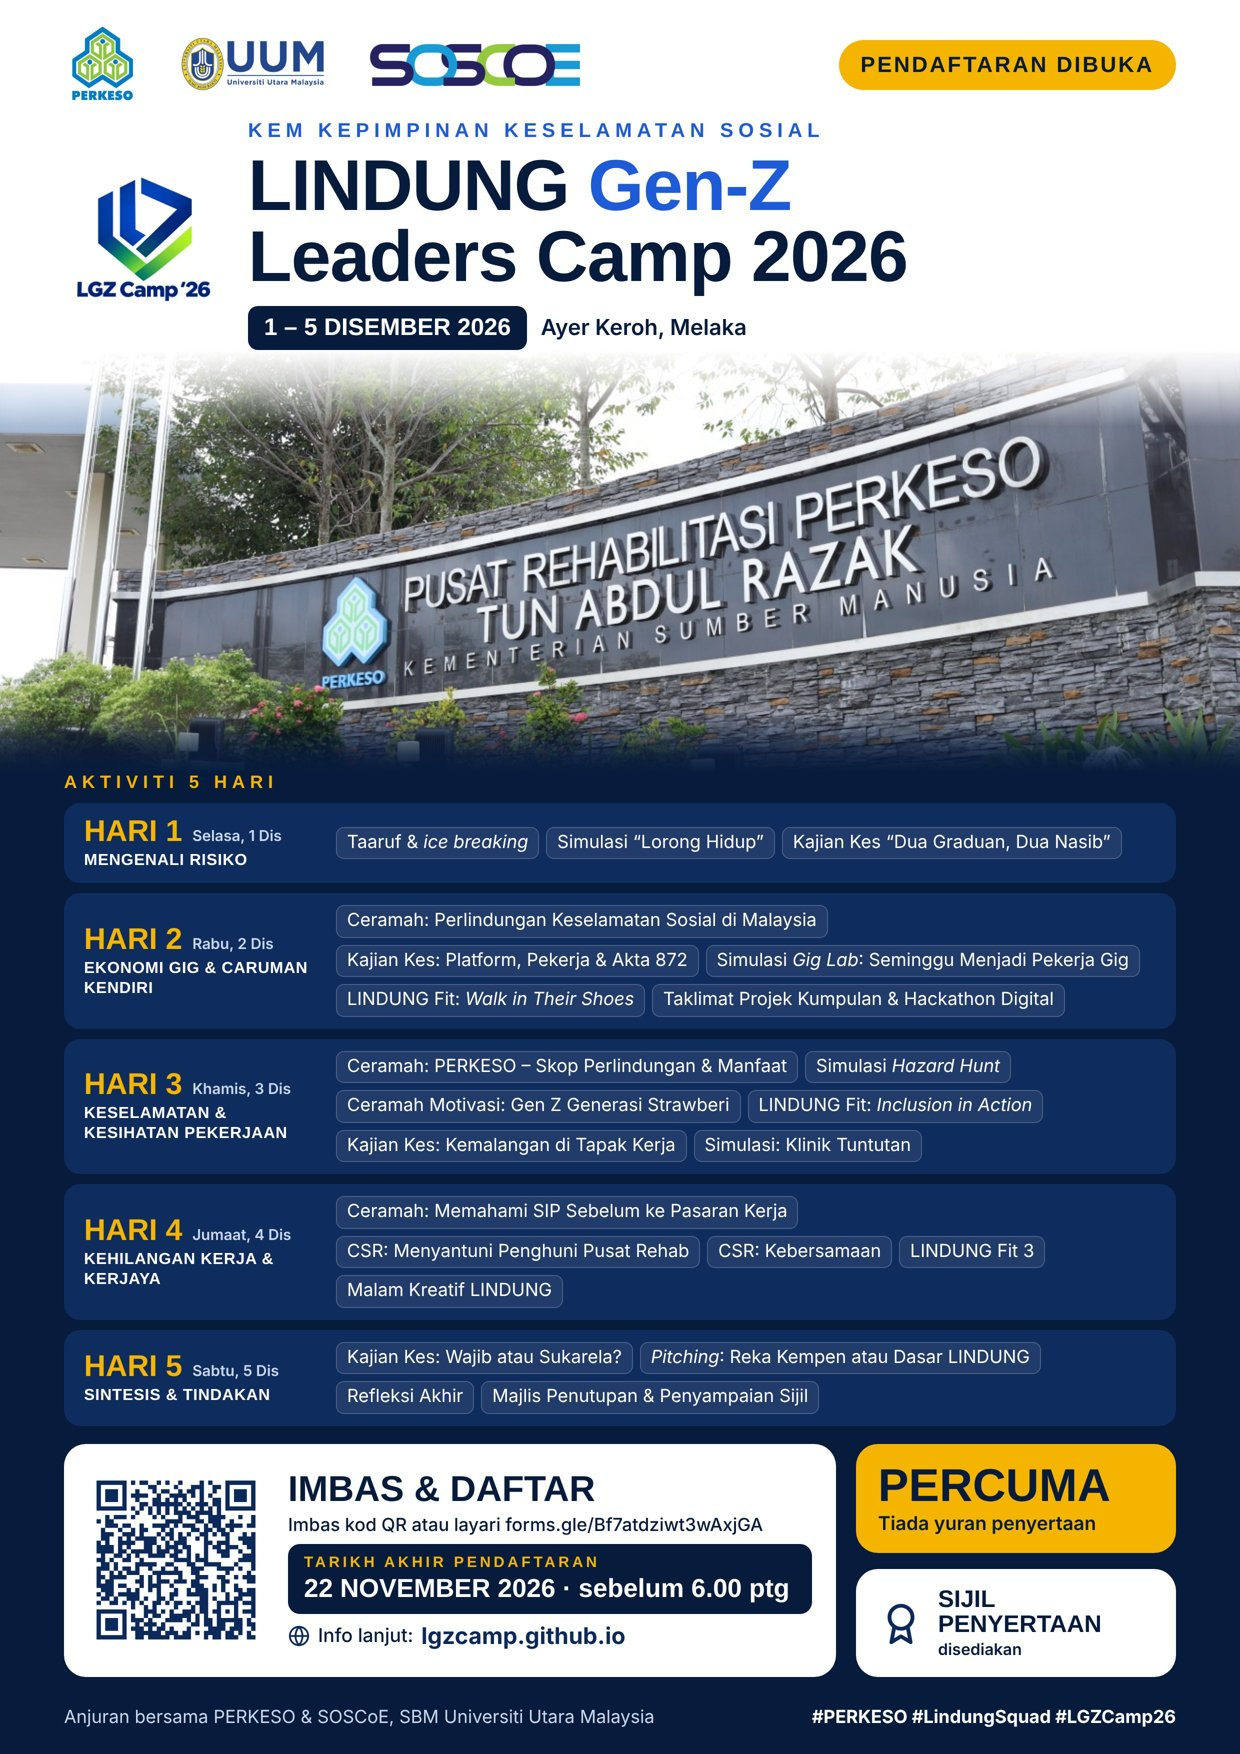
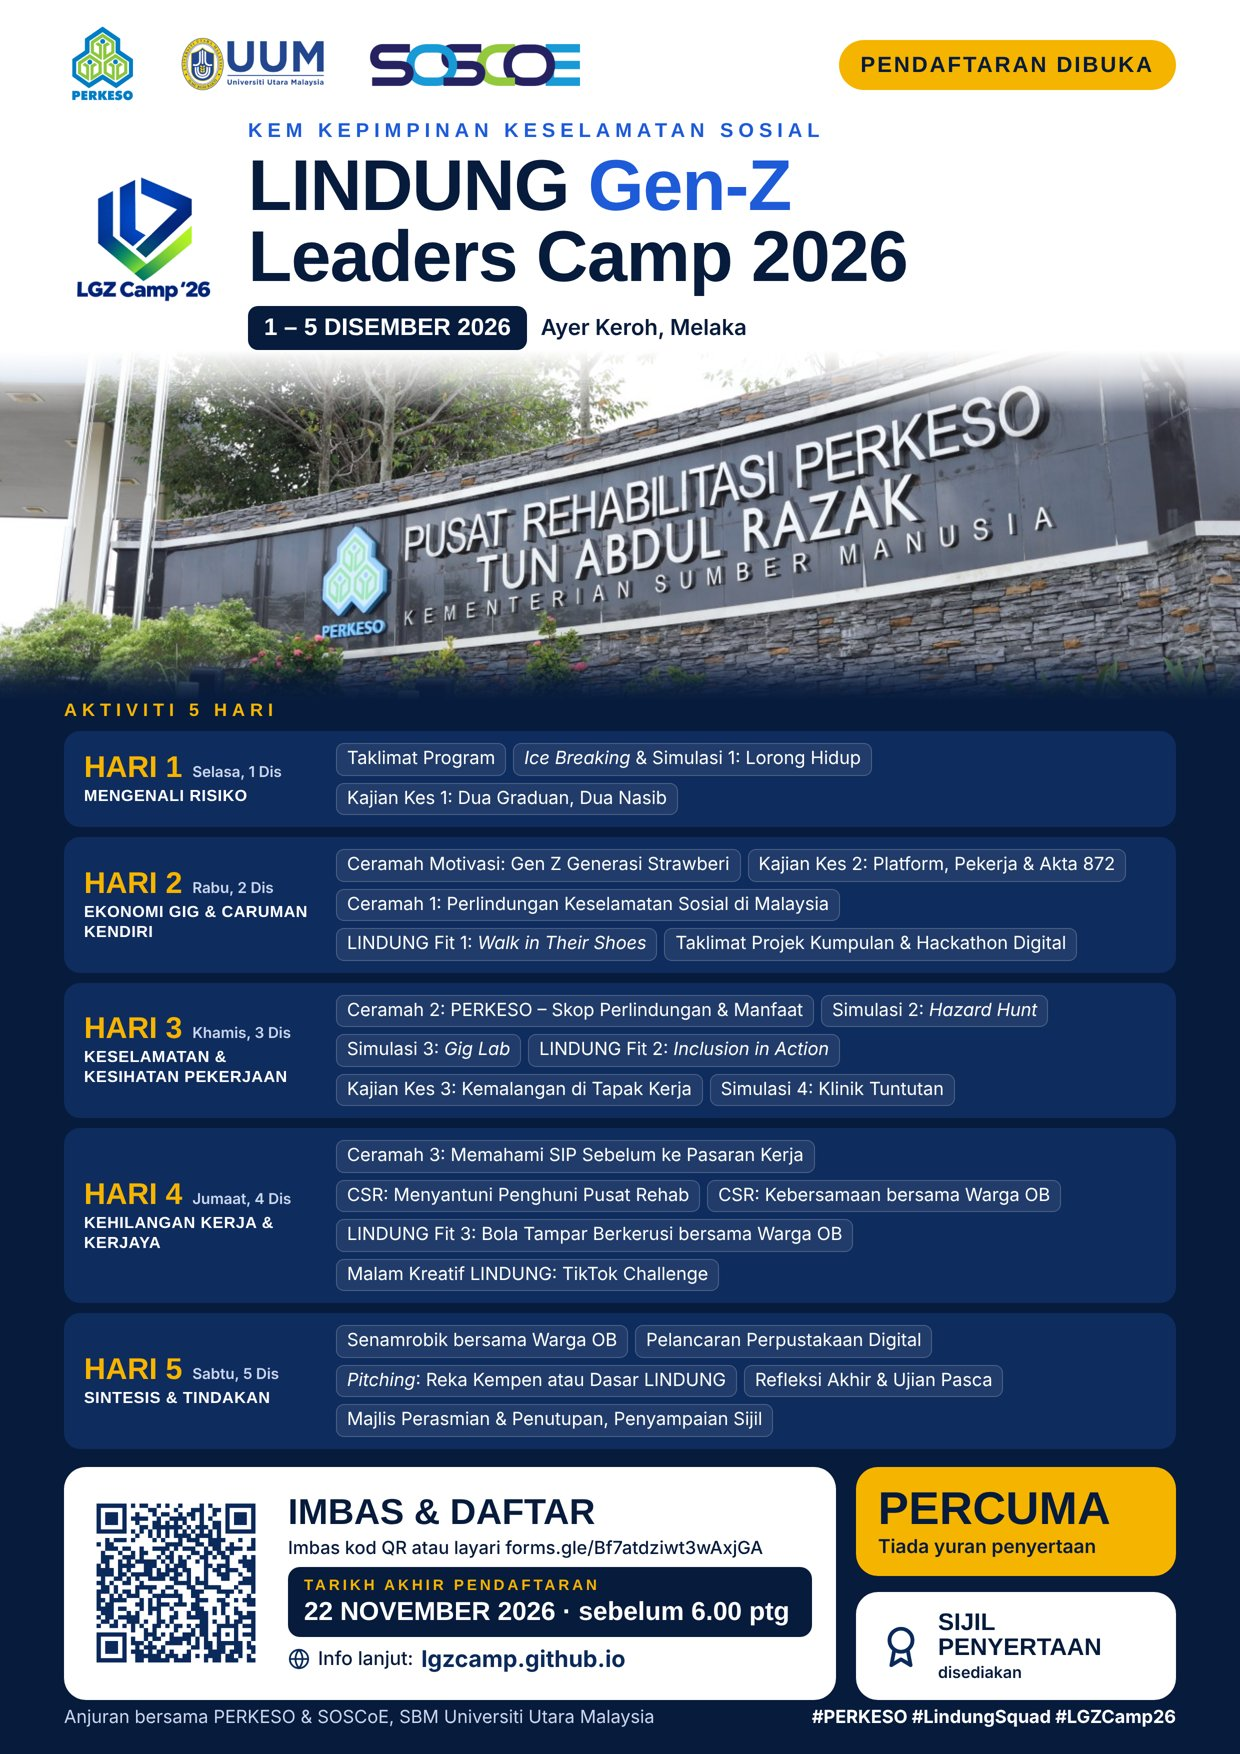
Sync schedule and poster with latest Itinerari sheet (12 Nov 2026)
Claude-Session: https://claude.ai/code/session_01H7k81vd4jjuLRDGv6NzQnb

diff --git a/index.html b/index.html
@@ -221,9 +221,9 @@ footer .tags{color:#fff;font-weight:700}
       <div><b>Refleksi</b><span>Rumuskan pelajaran dan reka tindakan</span></div>
     </div>
     <div class="grid3" style="margin-top:20px">
-      <div class="card"><h3>LINDUNG Fit</h3><p>Sesi riadah bertema empati dan inklusiviti, termasuk <i>Walk in Their Shoes</i> dan <i>Inclusion in Action</i>.</p></div>
+      <div class="card"><h3>LINDUNG Fit</h3><p>Sesi riadah bertema empati dan inklusiviti, termasuk <i>Walk in Their Shoes</i>, <i>Inclusion in Action</i> dan bola tampar berkerusi bersama Warga OB.</p></div>
       <div class="card"><h3>Hackathon Digital</h3><p>Projek kumpulan yang memuncak dengan <i>pitching</i> kempen atau dasar LINDUNG pada Hari 5.</p></div>
-      <div class="card"><h3>CSR di Pusat Rehab</h3><p>Menyantuni penghuni Pusat Rehabilitasi PERKESO dan aktiviti kebersamaan pada Hari 4.</p></div>
+      <div class="card"><h3>CSR di Pusat Rehab</h3><p>Menyantuni penghuni Pusat Rehabilitasi PERKESO dan aktiviti kebersamaan bersama Warga OB pada Hari 4.</p></div>
     </div>
   </div>
 </section>
@@ -244,8 +244,8 @@ footer .tags{color:#fff;font-weight:700}
       <div class="day-h"><b>HARI 1</b><span>Mengenali Risiko</span></div>
       <ol>
         <li><time>3.00 – 4.00 ptg</time><div><b>Pendaftaran peserta</b></div></li>
-        <li><time>4.00 – 6.00 ptg</time><div><b>Taaruf dan <i>ice breaking</i></b></div></li>
-        <li><time>8.00 – 9.30 mlm</time><div><b><span class="tag t-si">Simulasi 1</span>“Lorong Hidup”</b></div></li>
+        <li><time>4.00 – 6.00 ptg</time><div><b><span class="tag t-pr">Majlis</span>Taklimat Program</b></div></li>
+        <li><time>8.00 – 9.30 mlm</time><div><b><span class="tag t-si">Simulasi 1</span><i>Ice Breaking</i> dan “Lorong Hidup”</b></div></li>
         <li><time>9.30 – 10.45 mlm</time><div><b><span class="tag t-kk">Kajian Kes 1</span>“Dua Graduan, Dua Nasib”</b></div></li>
       </ol>
     </div>
@@ -253,9 +253,9 @@ footer .tags{color:#fff;font-weight:700}
     <div class="day" id="d2" role="tabpanel" aria-labelledby="tab-2">
       <div class="day-h"><b>HARI 2</b><span>Ekonomi Gig dan Caruman Kendiri</span></div>
       <ol>
-        <li><time>8.30 – 10.30 pg</time><div><b><span class="tag t-ce">Ceramah 1</span>Perlindungan Keselamatan Sosial di Malaysia: Isu dan Cabaran</b><small>En. Abdul Rahim bin Wahab &amp; En. Ahmad Khairulnizam bin Mat Sulaiman (PERKESO)</small></div></li>
+        <li><time>8.30 – 10.30 pg</time><div><b><span class="tag t-ce">Motivasi</span>Gen Z Generasi Strawberi: Menangkis Persepsi, Mendayakan Peribadi</b><small>En. Amin Idris</small></div></li>
         <li><time>10.45 pg – 12.30 tgh</time><div><b><span class="tag t-kk">Kajian Kes 2</span>Platform, Pekerja dan Akta 872</b></div></li>
-        <li><time>2.00 – 4.30 ptg</time><div><b><span class="tag t-si">Simulasi 2</span><i>Gig Lab</i>: Seminggu Menjadi Pekerja Gig</b></div></li>
+        <li><time>2.00 – 4.30 ptg</time><div><b><span class="tag t-ce">Ceramah 1</span>Perlindungan Keselamatan Sosial di Malaysia: Isu dan Cabaran</b><small>En. Abdul Rahim bin Wahab &amp; En. Ahmad Khairulnizam bin Mat Sulaiman (PERKESO)</small></div></li>
         <li><time>5.30 – 6.45 ptg</time><div><b><span class="tag t-fit">LINDUNG Fit 1</span><i>Walk in Their Shoes</i></b></div></li>
         <li><time>8.15 – 10.30 mlm</time><div><b><span class="tag t-pr">Projek</span>Taklimat Projek Kumpulan dan Hackathon Digital</b></div></li>
       </ol>
@@ -264,9 +264,9 @@ footer .tags{color:#fff;font-weight:700}
     <div class="day" id="d3" role="tabpanel" aria-labelledby="tab-3">
       <div class="day-h"><b>HARI 3</b><span>Keselamatan dan Kesihatan Pekerjaan</span></div>
       <ol>
-        <li><time>8.30 – 10.30 pg</time><div><b><span class="tag t-ce">Ceramah 2</span>PERKESO – Skop Perlindungan dan Manfaat</b><small>Pn. Dewi Murni binti Hamid &amp; En. Abdul Rahim bin Wahab (PERKESO)</small></div></li>
-        <li><time>10.45 pg – 12.30 tgh</time><div><b><span class="tag t-si">Simulasi 3</span><i>Hazard Hunt</i></b></div></li>
-        <li><time>2.00 – 4.30 ptg</time><div><b><span class="tag t-ce">Motivasi</span>Gen Z Generasi Strawberi: Menangkis Persepsi, Mendayakan Peribadi</b><small>En. Amin Idris</small></div></li>
+        <li><time>8.30 – 10.30 pg</time><div><b><span class="tag t-ce">Ceramah 2</span>PERKESO: Skop Perlindungan dan Manfaat</b><small>Pn. Dewi Murni binti Hamid &amp; En. Abdul Rahim bin Wahab (PERKESO)</small></div></li>
+        <li><time>10.45 pg – 12.30 tgh</time><div><b><span class="tag t-si">Simulasi 2</span><i>Hazard Hunt</i></b></div></li>
+        <li><time>2.00 – 4.30 ptg</time><div><b><span class="tag t-si">Simulasi 3</span><i>Gig Lab</i>: Seminggu Menjadi Pekerja Gig</b></div></li>
         <li><time>5.30 – 6.45 ptg</time><div><b><span class="tag t-fit">LINDUNG Fit 2</span><i>Inclusion in Action</i></b></div></li>
         <li><time>8.15 – 9.30 mlm</time><div><b><span class="tag t-kk">Kajian Kes 3</span>Kemalangan di Tapak Kerja</b></div></li>
         <li><time>9.30 – 10.45 mlm</time><div><b><span class="tag t-si">Simulasi 4</span>Klinik Tuntutan</b></div></li>
@@ -276,21 +276,22 @@ footer .tags{color:#fff;font-weight:700}
     <div class="day" id="d4" role="tabpanel" aria-labelledby="tab-4">
       <div class="day-h"><b>HARI 4</b><span>Kehilangan Kerja dan Kerjaya</span></div>
       <ol>
-        <li><time>8.30 – 10.30 pg</time><div><b><span class="tag t-ce">Ceramah 3</span>Persediaan Graduan – Memahami SIP Sebelum Melangkah ke Pasaran Kerja</b><small>Pn. Hazah binti Mahmad Toha &amp; En. Azlin bin Abd Aziz (PERKESO)</small></div></li>
+        <li><time>8.30 – 10.30 pg</time><div><b><span class="tag t-ce">Ceramah 3</span>Persediaan Graduan: Memahami SIP Sebelum Melangkah ke Pasaran Kerja</b><small>Pn. Hazah binti Mahmad Toha &amp; En. Azlin bin Abd Aziz (PERKESO)</small></div></li>
         <li><time>10.50 pg – 12.30 tgh</time><div><b><span class="tag t-csr">CSR</span>Menyantuni Penghuni Pusat Rehab</b></div></li>
-        <li><time>2.00 – 4.30 ptg</time><div><b><span class="tag t-csr">CSR</span>Kebersamaan</b></div></li>
-        <li><time>5.00 – 6.45 ptg</time><div><b><span class="tag t-fit">LINDUNG Fit 3</span></b></div></li>
-        <li><time>8.15 – 10.30 mlm</time><div><b>Malam Kreatif LINDUNG</b></div></li>
+        <li><time>3.00 – 4.30 ptg</time><div><b><span class="tag t-csr">CSR</span>Kebersamaan bersama Warga OB</b></div></li>
+        <li><time>5.00 – 6.45 ptg</time><div><b><span class="tag t-fit">LINDUNG Fit 3</span>Liga Sukan Bola Tampar Berkerusi bersama Warga OB</b></div></li>
+        <li><time>8.15 – 10.30 mlm</time><div><b><span class="tag t-pr">Pasukan</span>Malam Kreatif LINDUNG: TikTok Challenge</b></div></li>
       </ol>
     </div>
 
     <div class="day" id="d5" role="tabpanel" aria-labelledby="tab-5">
       <div class="day-h"><b>HARI 5</b><span>Sintesis dan Tindakan</span></div>
       <ol>
-        <li><time>8.30 – 9.30 pg</time><div><b><span class="tag t-kk">Kajian Kes 5</span>Wajib atau Sukarela?</b></div></li>
-        <li><time>9.30 – 11.00 pg</time><div><b><span class="tag t-pr"><i>Pitching</i></span>Reka Kempen atau Dasar LINDUNG</b></div></li>
-        <li><time>11.00 – 11.30 pg</time><div><b>Refleksi akhir dan ujian pasca program</b></div></li>
-        <li><time>11.30 pg – 1.00 tgh</time><div><b>Majlis Perasmian &amp; Penutupan – Penyampaian Sijil</b></div></li>
+        <li><time>6.30 – 7.30 pg</time><div><b><span class="tag t-fit">LINDUNG Fit</span>Senamrobik bersama Warga OB</b></div></li>
+        <li><time>9.00 – 10.00 pg</time><div><b><span class="tag t-pr">Majlis</span>Pelancaran Perpustakaan Digital</b></div></li>
+        <li><time>10.00 – 11.30 pg</time><div><b><span class="tag t-pr"><i>Pitching</i></span>Reka Kempen atau Dasar LINDUNG</b></div></li>
+        <li><time>11.30 pg – 12.00 tgh</time><div><b><span class="tag t-kk">Penilaian</span>Refleksi akhir dan ujian pasca program</b></div></li>
+        <li><time>12.00 tgh – 1.00 ptg</time><div><b><span class="tag t-pr">Majlis</span>Majlis Perasmian &amp; Penutupan, Penyampaian Sijil</b></div></li>
         <li><time>2.30 ptg</time><div><b><i>Check-out</i></b></div></li>
       </ol>
     </div>
@@ -325,7 +326,7 @@ footer .tags{color:#fff;font-weight:700}
     <p class="lead">Soal selidik kesedaran keselamatan sosial untuk mengukur keberkesanan program. Jawab hanya apabila diminta oleh fasilitator.</p>
     <div class="grid2">
       <div class="card"><h3>Pra-Survey · Hari 1</h3><p style="margin-bottom:16px">Dijawab sebelum aktiviti bermula pada 1 Disember 2026.</p><a class="btn n" href="https://docs.google.com/forms/d/e/1FAIpQLSd7mnCCz7fiS-9K4t5CI4DAz3cGOFeqZtjPjmYTko4VXQq8Jg/viewform" target="_blank" rel="noopener">Jawab Pra-Survey</a></div>
-      <div class="card"><h3>Pasca-Survey · Hari 5</h3><p style="margin-bottom:16px">Dijawab semasa refleksi akhir, 5 Disember 2026, 11.00 pagi.</p><a class="btn n" href="https://docs.google.com/forms/d/e/1FAIpQLSdoYRReg2GXZQsWGpyC-4x3wzUWcmKPRHlhcQFjivo2ASXBuw/viewform" target="_blank" rel="noopener">Jawab Pasca-Survey</a></div>
+      <div class="card"><h3>Pasca-Survey · Hari 5</h3><p style="margin-bottom:16px">Dijawab semasa refleksi akhir, 5 Disember 2026, 11.30 pagi.</p><a class="btn n" href="https://docs.google.com/forms/d/e/1FAIpQLSdoYRReg2GXZQsWGpyC-4x3wzUWcmKPRHlhcQFjivo2ASXBuw/viewform" target="_blank" rel="noopener">Jawab Pasca-Survey</a></div>
     </div>
   </div>
 </section>
